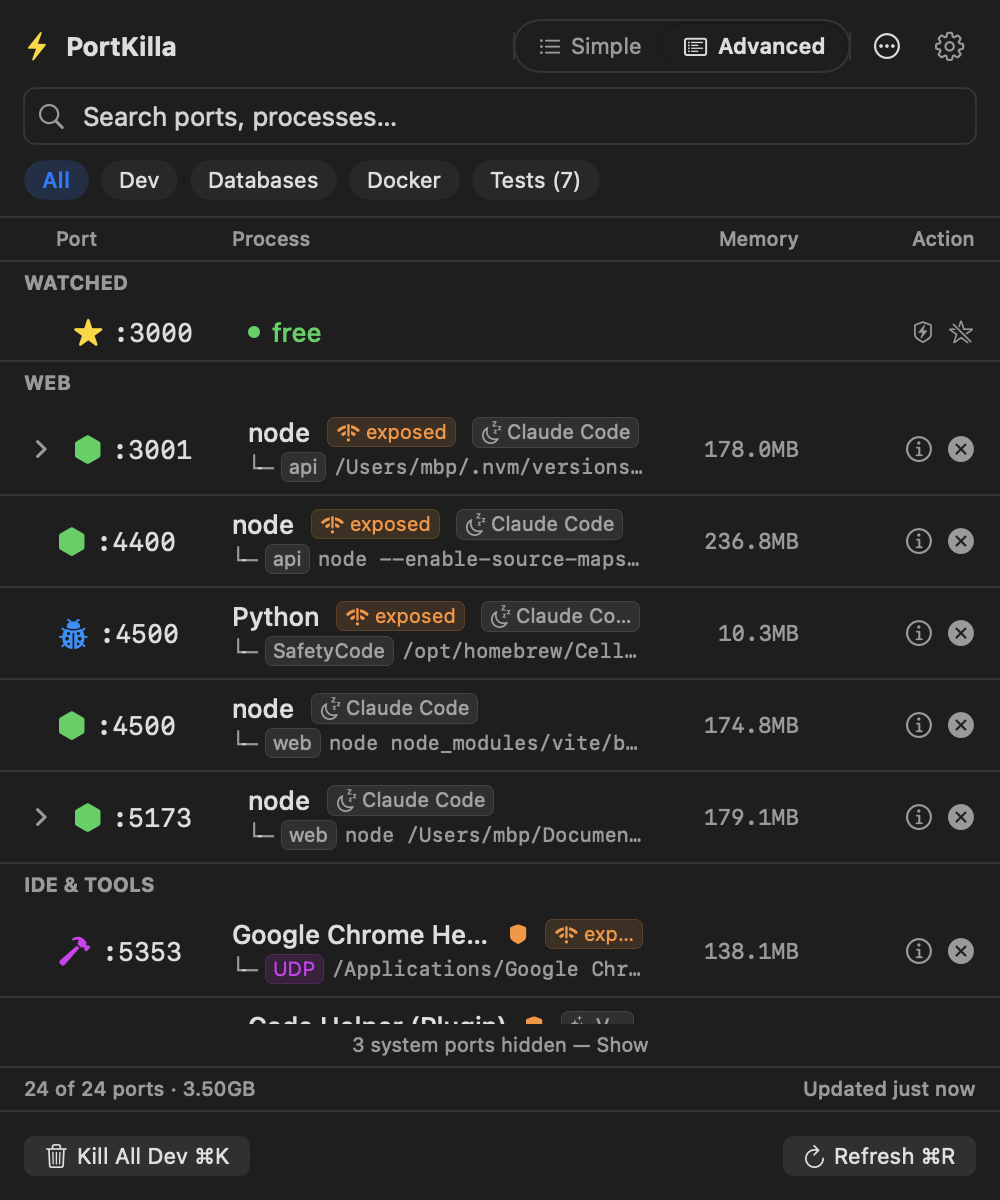
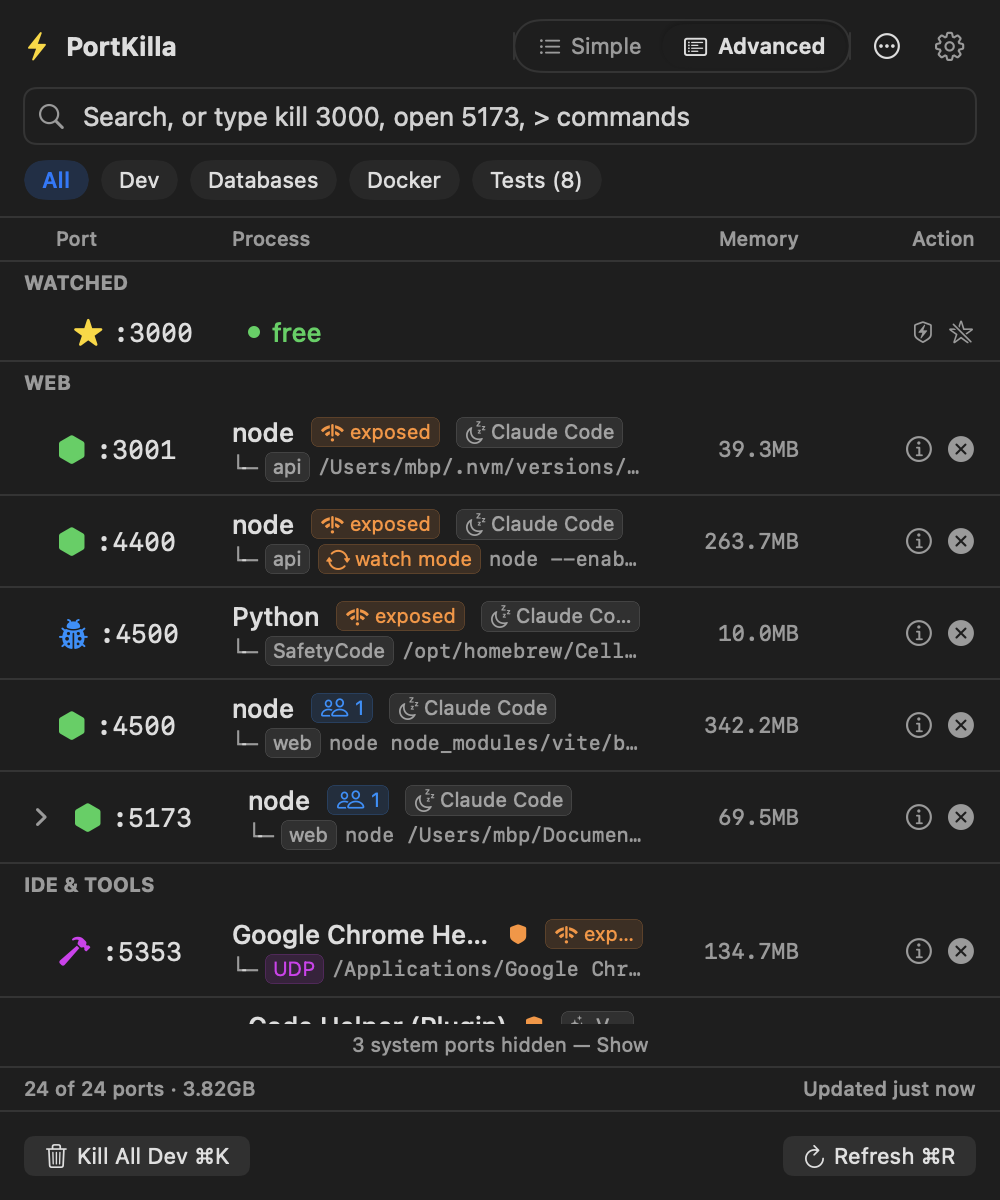
Assets: screenshots and demo for the new UI
- assets/screenshot.png: the popover in Advanced density with a watched
  port, chips for clients, agents, and a supervisor.
- assets/workbench.png: the Workbench window as photographed by the
  workbench-live hook (sidebar, table, inspector pane).
- assets/demo.gif regenerated.
- The live capture hook takes the section and selection hooks, waits a
  little longer, falls back to a screen-region capture, and reports a
  failure instead of swallowing it. CONTRIBUTING shows the commands.

diff --git a/PortKilla/Sources/PortKilla/App/AppDelegate+DevHooks.swift b/PortKilla/Sources/PortKilla/App/AppDelegate+DevHooks.swift
@@ -37,6 +37,26 @@ extension AppDelegate {
         }
     }
 
+    /// By window id first; by screen region (the window's frame, flipped to
+    /// screencapture's top-left origin) when the window server declines.
+    private func captureWorkbench(to path: String) {
+        guard let window = workbenchWindow, let screen = window.screen ?? NSScreen.main else {
+            FileHandle.standardError.write(Data("no workbench window to capture\n".utf8))
+            return
+        }
+        if (try? CommandRunner.run("/usr/sbin/screencapture", ["-x", "-o", "-l", "\(window.windowNumber)", path], timeout: 10)) != nil {
+            return
+        }
+        let frame = window.frame
+        let top = screen.frame.maxY - frame.maxY
+        let region = "\(Int(frame.minX)),\(Int(top)),\(Int(frame.width)),\(Int(frame.height))"
+        do {
+            _ = try CommandRunner.run("/usr/sbin/screencapture", ["-x", "-R", region, path], timeout: 10)
+        } catch {
+            FileHandle.standardError.write(Data("screencapture failed by window and by region \(region): \(error)\n".utf8))
+        }
+    }
+
     func writeSnapshot(of viewName: String, to path: String) {
         // Seed watched ports so the watched section can be rendered in snapshots
         if let watchList = Foundation.ProcessInfo.processInfo.environment["PORTKILLA_SNAPSHOT_WATCH"] {
@@ -69,11 +89,12 @@ extension AppDelegate {
             // Sidebar material is composited by the window server, so an
             // offscreen render shows it blank: open the real window and let
             // screencapture photograph it (needs Screen Recording permission).
-            openWorkbench()
-            DispatchQueue.main.asyncAfter(deadline: .now() + 1.5) { [weak self] in
-                if let number = self?.workbenchWindow?.windowNumber {
-                    _ = try? CommandRunner.run("/usr/sbin/screencapture", ["-x", "-o", "-l", "\(number)", path], timeout: 10)
-                }
+            let env = Foundation.ProcessInfo.processInfo.environment
+            let section = env["PORTKILLA_SNAPSHOT_SECTION"].flatMap { WorkbenchView.Section(rawValue: $0.capitalized) } ?? .ports
+            let selected = env["PORTKILLA_SNAPSHOT_SELECT"].flatMap(Int.init).flatMap { number in portManager.activePorts.first { $0.port == number }?.id }
+            openWorkbench(section: section, selection: selected)
+            DispatchQueue.main.asyncAfter(deadline: .now() + 3.0) { [weak self] in
+                self?.captureWorkbench(to: path)
                 NSApp.terminate(nil)
             }
             return

diff --git a/PortKilla/Sources/PortKilla/Workbench/WorkbenchView.swift b/PortKilla/Sources/PortKilla/Workbench/WorkbenchView.swift
@@ -45,14 +45,8 @@ struct WorkbenchView: View {
 
     var body: some View {
         NavigationSplitView {
-            List(Section.allCases, selection: $section) { item in
-                NavigationLink(value: item) {
-                    Label(item.rawValue, systemImage: item.icon)
-                        .badge(badge(for: item))
-                }
-            }
-            .listStyle(.sidebar)
-            .navigationSplitViewColumnWidth(min: 160, ideal: 180, max: 220)
+            sidebar
+                .navigationSplitViewColumnWidth(min: 160, ideal: 180, max: 220)
         } content: {
             content
                 .navigationSplitViewColumnWidth(min: 700, ideal: 820)
@@ -66,6 +60,18 @@ struct WorkbenchView: View {
         .navigationSplitViewStyle(.balanced)
         .frame(minWidth: 1220, minHeight: 600)
         .background(Color(nsColor: .windowBackgroundColor))
+    }
+
+    /// Note for screenshots: this column is composited by the window server
+    /// and draws blank in offscreen renders; `workbench-live` captures it.
+    private var sidebar: some View {
+        List(Section.allCases, selection: $section) { item in
+            NavigationLink(value: item) {
+                Label(item.rawValue, systemImage: item.icon)
+                    .badge(badge(for: item))
+            }
+        }
+        .listStyle(.sidebar)
     }
 
     @ViewBuilder

diff --git a/PortKilla/Sources/PortKilla/App/AppDelegate.swift b/PortKilla/Sources/PortKilla/App/AppDelegate.swift
@@ -216,10 +216,10 @@ class AppDelegate: NSObject, NSApplicationDelegate, NSPopoverDelegate, NSWindowD
 
     /// The full-size window: table, projects, agent sessions, watchlist,
     /// history, and an inspector. One instance, remembered position.
-    func openWorkbench() {
+    func openWorkbench(section: WorkbenchView.Section = .ports, selection: String? = nil) {
         popover.performClose(nil)
         if workbenchWindow == nil {
-            let view = WorkbenchView(portManager: portManager).environmentObject(self)
+            let view = WorkbenchView(portManager: portManager, initialSection: section, initialSelection: selection).environmentObject(self)
             let window = NSWindow(
                 contentRect: NSRect(x: 0, y: 0, width: 1380, height: 740),
                 styleMask: [.titled, .closable, .resizable, .miniaturizable],

diff --git a/README.md b/README.md
@@ -13,7 +13,9 @@
 `lsof -ti:3000 | xargs kill -9` frees the port. PortKilla does the same, and
 tells you *whose* server you are about to kill.
 
-<p align="center"><img src="assets/screenshot.png" width="500" alt="PortKilla: listening ports with process, memory, exposed badge, and the AI agent that started each"></p>
+<p align="center"><img src="assets/screenshot.png" width="500" alt="PortKilla: listening ports with process, project, memory, connected clients, a supervisor chip, and the AI agent that started each"></p>
+
+<p align="center"><img src="assets/workbench.png" width="820" alt="The PortKilla Workbench: a sidebar of ports, projects, agent sessions, watchlist, and history; a sortable table; an inspector for the selected port"></p>
 
 **PortKilla** is a lightweight, native macOS menu bar app that helps developers identify and kill processes occupying ports. Instantly fix `EADDRINUSE` errors, terminate stuck Node.js servers, and free up localhost ports without touching the terminal.
 

diff --git a/CONTRIBUTING.md b/CONTRIBUTING.md
@@ -99,7 +99,10 @@ Regenerate the README assets:
 
 ```bash
 # main-view screenshot
-PORTKILLA_SNAPSHOT=../assets/screenshot.png .build/debug/PortKilla
+PORTKILLA_SNAPSHOT=../assets/screenshot.png PORTKILLA_SNAPSHOT_DENSITY=advanced PORTKILLA_SNAPSHOT_WATCH=3000 .build/debug/PortKilla
+# the Workbench: a real window, photographed (needs Screen Recording permission
+# for the debug binary; the offscreen render leaves the sidebar column blank)
+PORTKILLA_SNAPSHOT=../assets/workbench.png PORTKILLA_SNAPSHOT_VIEW=workbench-live PORTKILLA_SNAPSHOT_SELECT=3000 .build/debug/PortKilla
 # animated demo
 PORTKILLA_DEMO_GIF=../assets/demo.gif .build/debug/PortKilla
 ```

diff --git a/CHANGELOG.md b/CHANGELOG.md
@@ -177,7 +177,8 @@ release, rename it to the version and date.
   SHA-256 (`packaging/homebrew/portkilla.rb.tmpl`, `livecheck`,
   `brew upgrade` support). It runs only when a `HOMEBREW_TAP_TOKEN` secret
   exists; see RELEASING.md.
-- README leads with a current screenshot; the demo GIF is regenerated.
+- README leads with a current screenshot and shows the Workbench; the demo
+  GIF is regenerated.
 
 ## 1.16.0 — 2026-09-06
 
